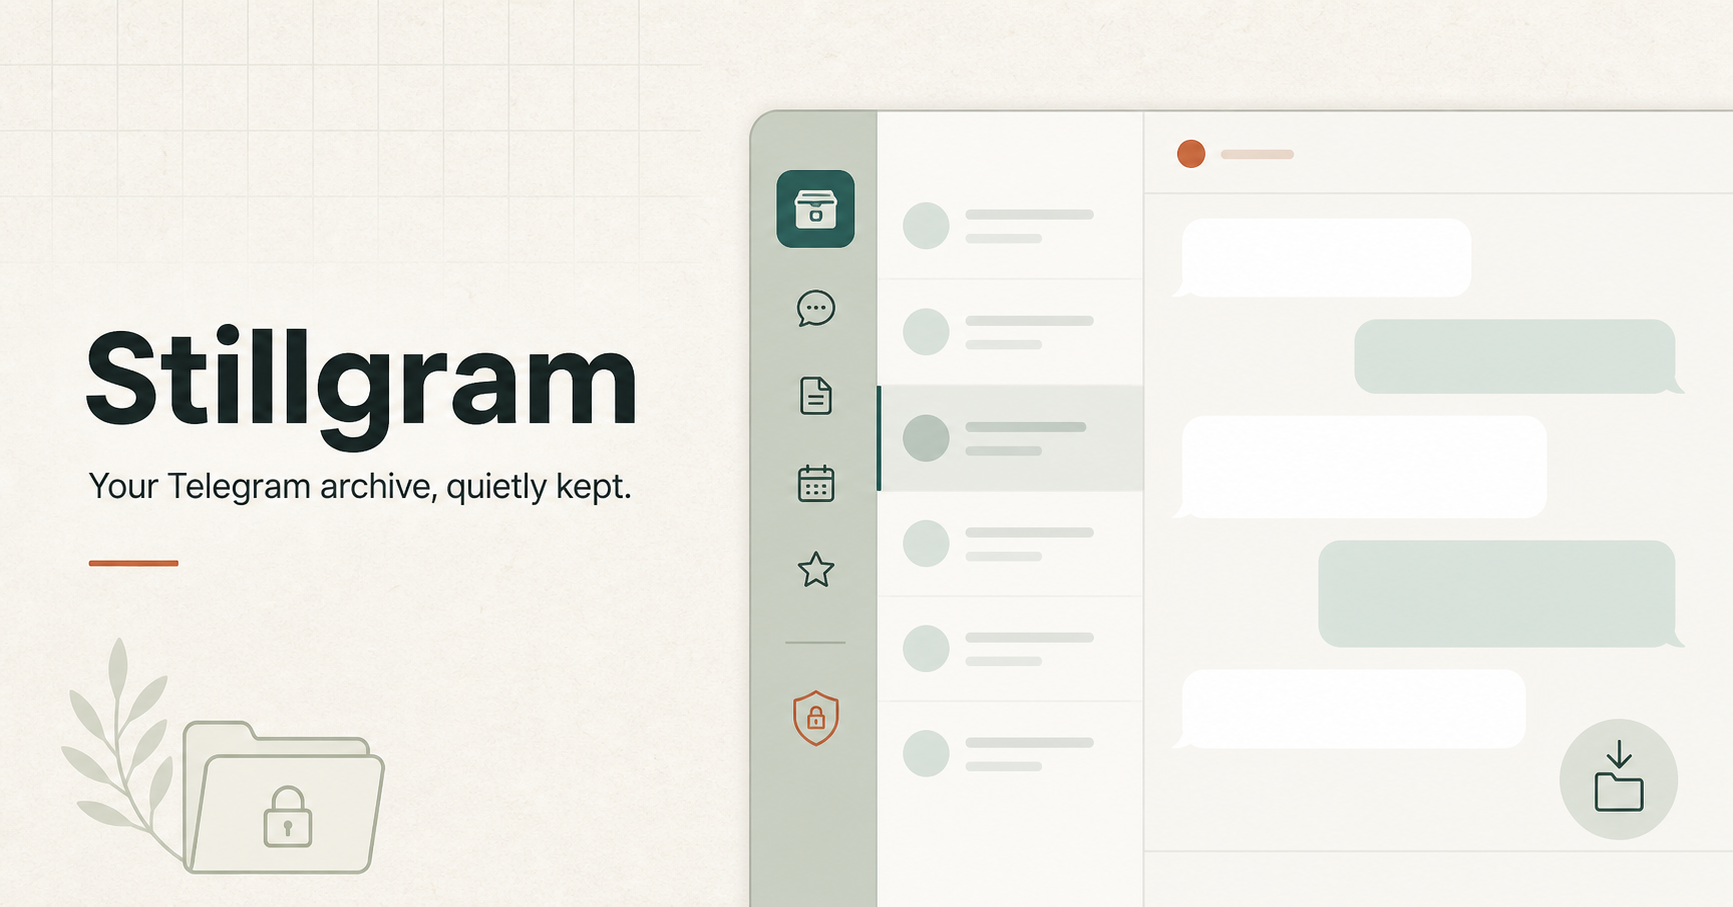
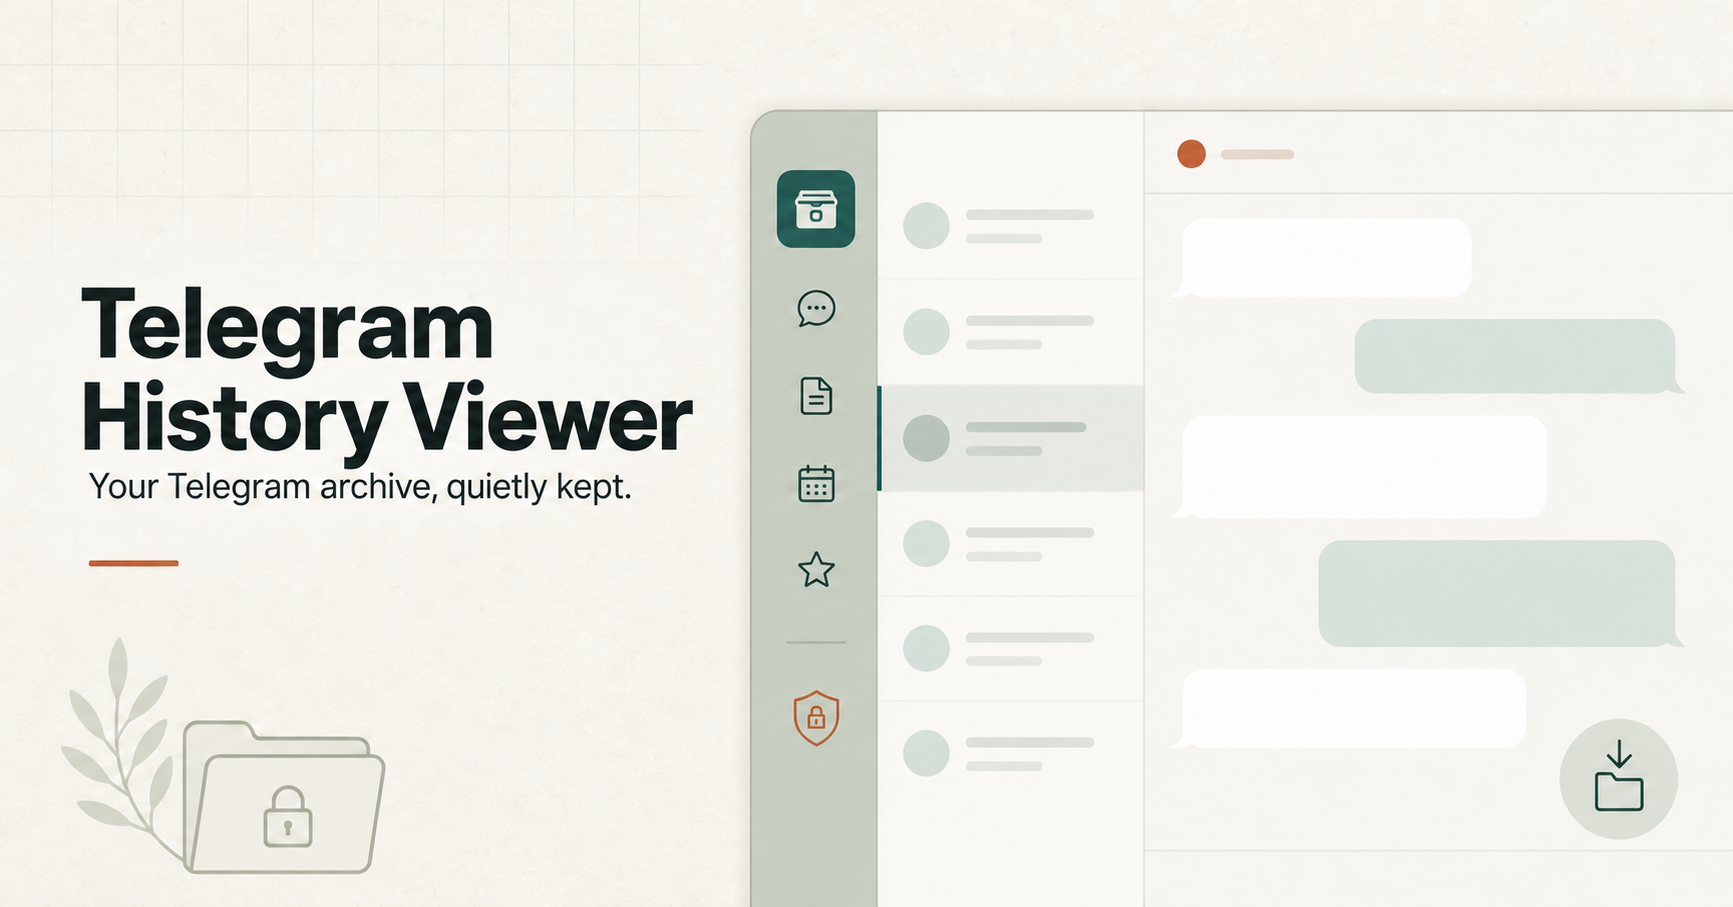
Rebrand app and add GitHub release pipeline

diff --git a/app/page.tsx b/app/page.tsx
@@ -189,12 +189,26 @@ const dayFormatter = new Intl.DateTimeFormat(undefined, {
 });
 const timeFormatter = new Intl.DateTimeFormat(undefined, { hour: "numeric", minute: "2-digit" });
 const mediaDateFormatter = new Intl.DateTimeFormat(undefined, { month: "short", day: "numeric" });
-const ARCHIVE_CACHE_DATABASE = "stillgram-local-archive-files";
+const ARCHIVE_CACHE_DATABASE = "telegram-history-viewer-local-archive-files";
+const LEGACY_ARCHIVE_CACHE_DATABASE = "stillgram-local-archive-files";
 const ARCHIVE_FILES_STORE = "files";
 const ARCHIVE_META_STORE = "metadata";
 const ARCHIVE_CACHE_KEY = "current-archive";
-const CHAT_REMOVED_STORAGE_KEY = "stillgram:chat-removed";
-const LINK_PREVIEWS_STORAGE_KEY = "stillgram:allow-link-previews";
+const CHAT_REMOVED_STORAGE_KEY = "telegram-history-viewer:chat-removed";
+const LEGACY_CHAT_REMOVED_STORAGE_KEY = "stillgram:chat-removed";
+const LINK_PREVIEWS_STORAGE_KEY = "telegram-history-viewer:allow-link-previews";
+const LEGACY_LINK_PREVIEWS_STORAGE_KEY = "stillgram:allow-link-previews";
+
+function readMigratedStorage(currentKey: string, legacyKey: string) {
+  const currentValue = window.localStorage.getItem(currentKey);
+  if (currentValue !== null) return currentValue;
+  const legacyValue = window.localStorage.getItem(legacyKey);
+  if (legacyValue !== null) {
+    window.localStorage.setItem(currentKey, legacyValue);
+    window.localStorage.removeItem(legacyKey);
+  }
+  return legacyValue;
+}
 
 function messageText(message: TelegramMessage): string {
   const source = message.text_entities ?? message.text ?? "";
@@ -207,9 +221,9 @@ function normalizePath(path: string) {
   return path.replaceAll("\\", "/").replace(/^\.\//, "");
 }
 
-function openArchiveCache() {
+function openArchiveCache(databaseName = ARCHIVE_CACHE_DATABASE) {
   return new Promise<IDBDatabase>((resolve, reject) => {
-    const request = indexedDB.open(ARCHIVE_CACHE_DATABASE, 1);
+    const request = indexedDB.open(databaseName, 1);
     request.onupgradeneeded = () => {
       if (!request.result.objectStoreNames.contains(ARCHIVE_FILES_STORE)) {
         request.result.createObjectStore(ARCHIVE_FILES_STORE, { keyPath: "relativePath" });
@@ -238,10 +252,9 @@ function requestValue<T>(request: IDBRequest<T>) {
   });
 }
 
-async function readCachedArchive() {
-  if (typeof indexedDB === "undefined") return undefined;
+async function readArchiveCache(databaseName: string) {
   try {
-    const database = await openArchiveCache();
+    const database = await openArchiveCache(databaseName);
     const transaction = database.transaction([ARCHIVE_FILES_STORE, ARCHIVE_META_STORE], "readonly");
     const recordsRequest = transaction.objectStore(ARCHIVE_FILES_STORE).getAll() as IDBRequest<CachedArchiveRecord[]>;
     const metadataRequest = transaction.objectStore(ARCHIVE_META_STORE).get(ARCHIVE_CACHE_KEY) as IDBRequest<CachedArchiveMetadata | undefined>;
@@ -253,6 +266,16 @@ async function readCachedArchive() {
   } catch {
     return undefined;
   }
+}
+
+async function readCachedArchive() {
+  if (typeof indexedDB === "undefined") return undefined;
+  const currentArchive = await readArchiveCache(ARCHIVE_CACHE_DATABASE);
+  if (currentArchive) return currentArchive;
+
+  const legacyArchive = await readArchiveCache(LEGACY_ARCHIVE_CACHE_DATABASE);
+  if (legacyArchive) await cacheArchive(legacyArchive.entries, legacyArchive.label);
+  return legacyArchive;
 }
 
 async function cacheArchive(entries: ArchiveFileEntry[], label: string) {
@@ -280,12 +303,14 @@ async function cacheArchive(entries: ArchiveFileEntry[], label: string) {
 async function clearCachedArchive() {
   if (typeof indexedDB === "undefined") return false;
   try {
-    const database = await openArchiveCache();
-    const transaction = database.transaction([ARCHIVE_FILES_STORE, ARCHIVE_META_STORE], "readwrite");
-    transaction.objectStore(ARCHIVE_FILES_STORE).clear();
-    transaction.objectStore(ARCHIVE_META_STORE).delete(ARCHIVE_CACHE_KEY);
-    await waitForTransaction(transaction);
-    database.close();
+    await Promise.all([ARCHIVE_CACHE_DATABASE, LEGACY_ARCHIVE_CACHE_DATABASE].map(async (databaseName) => {
+      const database = await openArchiveCache(databaseName);
+      const transaction = database.transaction([ARCHIVE_FILES_STORE, ARCHIVE_META_STORE], "readwrite");
+      transaction.objectStore(ARCHIVE_FILES_STORE).clear();
+      transaction.objectStore(ARCHIVE_META_STORE).delete(ARCHIVE_CACHE_KEY);
+      await waitForTransaction(transaction);
+      database.close();
+    }));
     return true;
   } catch {
     return false;
@@ -629,7 +654,7 @@ function fetchLinkPreview(url: string) {
   const request = fetch(`/api/link-preview?url=${encodeURIComponent(url)}`, {
     cache: "no-store",
     credentials: "same-origin",
-    headers: { "X-Stillgram-Link-Preview": "1" },
+    headers: { "X-Telegram-History-Viewer": "1" },
   })
     .then(async (response) => response.ok ? await response.json() as LinkPreviewData : null)
     .catch(() => null);
@@ -830,7 +855,7 @@ export default function Home() {
 
   useEffect(() => {
     try {
-      setLinkPreviewsEnabled(window.localStorage.getItem(LINK_PREVIEWS_STORAGE_KEY) === "true");
+      setLinkPreviewsEnabled(readMigratedStorage(LINK_PREVIEWS_STORAGE_KEY, LEGACY_LINK_PREVIEWS_STORAGE_KEY) === "true");
     } catch {
       setLinkPreviewsEnabled(false);
     }
@@ -842,7 +867,7 @@ export default function Home() {
       try {
         let chatWasRemoved = false;
         try {
-          chatWasRemoved = window.localStorage.getItem(CHAT_REMOVED_STORAGE_KEY) === "true";
+          chatWasRemoved = readMigratedStorage(CHAT_REMOVED_STORAGE_KEY, LEGACY_CHAT_REMOVED_STORAGE_KEY) === "true";
         } catch {
           // The deletion still applies for this session when browser storage is unavailable.
         }
@@ -906,7 +931,9 @@ export default function Home() {
   const otherName = chat.name ?? participants[0] ?? "Contact";
   const meName = participants.find((name) => name !== otherName) ?? participants[1] ?? "You";
   const defaultConversationName = meName === otherName ? otherName : `${meName} & ${otherName}`;
-  const conversationNameStorageKey = `stillgram:chat-name:${String(chat.id ?? `${meName}|${otherName}`)}`;
+  const conversationStorageId = String(chat.id ?? `${meName}|${otherName}`);
+  const conversationNameStorageKey = `telegram-history-viewer:chat-name:${conversationStorageId}`;
+  const legacyConversationNameStorageKey = `stillgram:chat-name:${conversationStorageId}`;
   const customConversationName = conversationNameOverride?.key === conversationNameStorageKey ? conversationNameOverride.value : "";
   const conversationName = customConversationName || defaultConversationName;
   const conversationInitials = `${initials(meName).slice(0, 1)}${initials(otherName).slice(0, 1)}`;
@@ -920,13 +947,13 @@ export default function Home() {
   useEffect(() => {
     let storedName = "";
     try {
-      storedName = window.localStorage.getItem(conversationNameStorageKey)?.trim() ?? "";
+      storedName = readMigratedStorage(conversationNameStorageKey, legacyConversationNameStorageKey)?.trim() ?? "";
     } catch {
       // Renaming still works for this session when browser storage is unavailable.
     }
     setConversationNameOverride(storedName ? { key: conversationNameStorageKey, value: storedName } : null);
     setRenamingConversation(false);
-  }, [conversationNameStorageKey]);
+  }, [conversationNameStorageKey, legacyConversationNameStorageKey]);
 
   useEffect(() => {
     if (!renamingConversation) return;
@@ -1080,6 +1107,7 @@ export default function Home() {
       setVisibleLimit(DEFAULT_MESSAGE_LIMIT);
       try {
         window.localStorage.removeItem(CHAT_REMOVED_STORAGE_KEY);
+        window.localStorage.removeItem(LEGACY_CHAT_REMOVED_STORAGE_KEY);
       } catch {
         // Opening the archive still works when browser storage is unavailable.
       }
@@ -1106,6 +1134,7 @@ export default function Home() {
     if (!enabled) linkPreviewCache.clear();
     try {
       window.localStorage.setItem(LINK_PREVIEWS_STORAGE_KEY, String(enabled));
+      window.localStorage.removeItem(LEGACY_LINK_PREVIEWS_STORAGE_KEY);
     } catch {
       // The setting remains valid for this session when storage is unavailable.
     }
@@ -1116,7 +1145,7 @@ export default function Home() {
     setCacheStatus(cleared ? "idle" : "unavailable");
     setPrivacyStatus(cleared
       ? "Saved archive files were cleared. The currently open chat stays available until you close the app."
-      : "Stillgram could not clear browser storage.");
+      : "Telegram History Viewer could not clear browser storage.");
   }
 
   function onFolderChange(event: ChangeEvent<HTMLInputElement>) {
@@ -1188,7 +1217,9 @@ export default function Home() {
     setError("");
     try {
       window.localStorage.setItem(CHAT_REMOVED_STORAGE_KEY, "true");
+      window.localStorage.removeItem(LEGACY_CHAT_REMOVED_STORAGE_KEY);
       window.localStorage.removeItem(conversationNameStorageKey);
+      window.localStorage.removeItem(legacyConversationNameStorageKey);
     } catch {
       // The chat remains removed for this session when browser storage is unavailable.
     }
@@ -1206,6 +1237,7 @@ export default function Home() {
     setConversationNameOverride({ key: conversationNameStorageKey, value: nextName });
     try {
       window.localStorage.setItem(conversationNameStorageKey, nextName);
+      window.localStorage.removeItem(legacyConversationNameStorageKey);
     } catch {
       // Keep the session-only rename when browser storage is unavailable.
     }
@@ -1395,7 +1427,7 @@ export default function Home() {
             <button className="theme-toggle" type="button" onClick={() => setTheme(theme === "light" ? "dark" : "light")} aria-label={`Use ${theme === "light" ? "dark" : "light"} theme`}>
               {theme === "light" ? "☾" : "☀"}
             </button>
-            <div className="telegram-brand"><strong>Stillgram</strong><small>local archive</small></div>
+            <div className="telegram-brand"><strong>Telegram History Viewer</strong><small>local archive</small></div>
             <button className="telegram-compose" type="button" onClick={() => void chooseFolder()} aria-label="Open a Telegram export folder">
               ＋
               <span className="control-tooltip" role="tooltip">Open a Telegram export folder</span>
@@ -1411,7 +1443,7 @@ export default function Home() {
                   <div className="chat-list-copy"><strong>{conversationName}</strong></div>
                 </button>
                 <button className="chat-list-rename" type="button" onClick={startConversationRename} aria-label="Rename chat from chat list" title="Rename chat">✎</button>
-                <button className="chat-list-delete" type="button" onClick={() => void removeCurrentChat()} aria-label="Delete current chat" title="Remove chat from Stillgram">
+                <button className="chat-list-delete" type="button" onClick={() => void removeCurrentChat()} aria-label="Delete current chat" title="Remove chat from Telegram History Viewer">
                   <svg viewBox="0 0 24 24" aria-hidden="true">
                     <path d="M9 3h6l1 2h4v2H4V5h4l1-2Zm-2 6h10l-1 11H8L7 9Zm3 2v7h2v-7h-2Zm4 0v7h2v-7h-2Z" />
                   </svg>
@@ -1666,7 +1698,7 @@ export default function Home() {
           }}>
             <header>
               <div className="rename-chat-avatar" aria-hidden="true">{conversationInitials}</div>
-              <div><strong id="rename-chat-title">Rename chat</strong><small>Change how this conversation appears in Stillgram</small></div>
+              <div><strong id="rename-chat-title">Rename chat</strong><small>Change how this conversation appears in Telegram History Viewer</small></div>
               <button type="button" onClick={cancelConversationRename} aria-label="Close rename dialog">×</button>
             </header>
             <label>
@@ -1700,7 +1732,7 @@ export default function Home() {
             <div className="privacy-setting-row">
               <div>
                 <strong>Rich link previews</strong>
-                <p>When on, Stillgram contacts websites for visible links. Those sites can see your IP address and the requested URL.</p>
+                <p>When on, Telegram History Viewer contacts websites for visible links. Those sites can see your IP address and the requested URL.</p>
               </div>
               <label className="privacy-switch">
                 <input type="checkbox" checked={linkPreviewsEnabled} onChange={(event) => setRichLinkPreviews(event.target.checked)} />
@@ -1711,7 +1743,7 @@ export default function Home() {
             <div className="privacy-setting-row saved-data-setting">
               <div>
                 <strong>Saved archive copy</strong>
-                <p>Archive files are stored locally for refresh recovery. They are not encrypted by Stillgram.</p>
+                <p>Archive files are stored locally for refresh recovery. They are not encrypted by Telegram History Viewer.</p>
               </div>
               <button className="clear-cache-button" type="button" onClick={() => void clearSavedArchiveCache()} disabled={isDemo || cacheStatus !== "saved"}>
                 Clear saved copy

diff --git a/app/layout.tsx b/app/layout.tsx
@@ -34,18 +34,18 @@ export async function generateMetadata(): Promise<Metadata> {
   const origin = `${protocol}://${host}`;
 
   return {
-    title: "Stillgram — Private Telegram archive viewer",
+    title: "Telegram History Viewer — Private archive viewer",
     description:
       "Browse and search Telegram chat exports locally. Your messages and media never leave your device.",
     openGraph: {
-      title: "Stillgram",
+      title: "Telegram History Viewer",
       description: "Your Telegram archive, quietly kept.",
       type: "website",
-      images: [{ url: `${origin}/og.png`, width: 1734, height: 907, alt: "Stillgram private chat archive viewer" }],
+      images: [{ url: `${origin}/og.png`, width: 1734, height: 907, alt: "Telegram History Viewer private archive interface" }],
     },
     twitter: {
       card: "summary_large_image",
-      title: "Stillgram",
+      title: "Telegram History Viewer",
       description: "Your Telegram archive, quietly kept.",
       images: [`${origin}/og.png`],
     },

diff --git a/app/api/link-preview/route.ts b/app/api/link-preview/route.ts
@@ -1,6 +1,6 @@
 const MAX_HTML_BYTES = 1_500_000;
 const MAX_URL_CHARACTERS = 4_096;
-const PREVIEW_REQUEST_HEADER = "x-stillgram-link-preview";
+const PREVIEW_REQUEST_HEADER = "x-telegram-history-viewer";
 
 function blockedIpv4(host: string) {
   const parts = host.split(".").map(Number);
@@ -53,7 +53,7 @@ async function fetchWithSafeRedirects(initialUrl: URL) {
     const response = await fetch(target, {
       headers: {
         Accept: "text/html,application/xhtml+xml,image/*;q=0.8",
-        "User-Agent": "Mozilla/5.0 (compatible; StillgramLinkPreview/1.0)",
+        "User-Agent": "Mozilla/5.0 (compatible; TelegramHistoryViewerLinkPreview/1.0)",
       },
       redirect: "manual",
       signal: AbortSignal.timeout(7000),

diff --git a/app/globals.css b/app/globals.css
@@ -1609,7 +1609,8 @@ body {
 
 .telegram-brand strong {
   font-size: 15px;
-  line-height: 1.1;
+  line-height: 1.05;
+  text-wrap: balance;
 }
 
 .telegram-brand small {
@@ -3244,10 +3245,8 @@ body {
   }
 
   .telegram-brand strong {
-    overflow: hidden;
     font-size: 12px;
-    text-overflow: ellipsis;
-    white-space: nowrap;
+    line-height: 1.05;
   }
 
   .telegram-brand small {

diff --git a/README.md b/README.md
@@ -1,13 +1,13 @@
-# Stillgram
+# Telegram History Viewer
 
-Stillgram is a private, on-device viewer for exported Telegram conversations. It displays messages, photos, videos, GIFs, stickers, audio, files, and links without uploading the archive.
+Telegram History Viewer is a private, on-device viewer for exported Telegram conversations. It displays messages, photos, videos, GIFs, stickers, audio, files, and links without uploading the archive.
 
 ## Privacy model
 
-- The archive is read in the application and is never uploaded by Stillgram.
-- A local cached copy is saved for refresh recovery. It can be removed at any time from **Privacy settings → Clear saved copy**. Stillgram does not encrypt this cache; access is protected by the operating-system account and device security.
-- Rich link previews are off by default. When enabled, Stillgram contacts the linked websites, which can reveal the device's public IP address and the requested URLs. Desktop preview requests reject local/private network targets and proxy preview images into the app.
-- Clicking a link opens it in the system browser. Stillgram does not embed external websites.
+- The archive is read in the application and is never uploaded by Telegram History Viewer.
+- A local cached copy is saved for refresh recovery. It can be removed at any time from **Privacy settings → Clear saved copy**. Telegram History Viewer does not encrypt this cache; access is protected by the operating-system account and device security.
+- Rich link previews are off by default. When enabled, Telegram History Viewer contacts the linked websites, which can reveal the device's public IP address and the requested URLs. Desktop preview requests reject local/private network targets and proxy preview images into the app.
+- Clicking a link opens it in the system browser. Telegram History Viewer does not embed external websites.
 
 See [SECURITY.md](SECURITY.md) for the security boundary, reporting process, and remaining limitations.
 
@@ -34,7 +34,7 @@ npm run desktop:build
 The finished executable is written to:
 
 ```text
-release/Stillgram-0.1.0-portable.exe
+release/Telegram-History-Viewer-0.1.0-portable.exe
 ```
 
 It does not need installation. The application starts a private server bound only to the local computer, and archive files remain on the device.
@@ -44,6 +44,18 @@ To test the desktop runtime without packaging it:
 ```powershell
 npm run desktop:run
 ```
+
+## Continuous integration and releases
+
+GitHub Actions validates TypeScript, linting, the production build, security tests, and the desktop smoke test on every push to `main` and every pull request.
+
+To publish a Windows release:
+
+1. Update `version` in `package.json` and commit the change.
+2. Create a matching tag, for example `git tag v0.1.0`.
+3. Push it with `git push origin v0.1.0`.
+
+The release workflow builds the portable x64 `.exe`, creates a SHA-256 checksum, stores both as a workflow artifact, and publishes them to the repository's GitHub Releases page. The workflow rejects a tag that does not match the version in `package.json`.
 
 ## Validation
 

diff --git a/SECURITY.md b/SECURITY.md
@@ -1,4 +1,4 @@
-# Stillgram security
+# Telegram History Viewer security
 
 ## Supported version
 
@@ -10,7 +10,7 @@ Do not include real Telegram exports, messages, media, access tokens, or other p
 
 ## Security boundary
 
-Stillgram is a local archive viewer, not an encrypted vault. The original Telegram export and Stillgram's refresh cache are plaintext data available to software running as the same operating-system user. Use full-disk encryption, a protected Windows account, and the **Clear saved copy** control when the archive should not remain cached.
+Telegram History Viewer is a local archive viewer, not an encrypted vault. The original Telegram export and the viewer's refresh cache are plaintext data available to software running as the same operating-system user. Use full-disk encryption, a protected Windows account, and the **Clear saved copy** control when the archive should not remain cached.
 
 The desktop renderer is sandboxed, has no Node.js access, and is restricted to the app's loopback origin. The embedded server listens only on `127.0.0.1`, requires a per-launch session cookie for link-preview requests, and applies restrictive browser security headers.
 
@@ -28,7 +28,7 @@ Before publishing a release:
 
 ## Known limitations
 
-- Cached archive data is not encrypted by Stillgram.
+- Cached archive data is not encrypted by Telegram History Viewer.
 - The Content Security Policy permits inline scripts because the current application framework emits inline hydration data. External script origins remain blocked.
 - The unsigned development executable can trigger Windows SmartScreen warnings.
 - The hosted/browser build cannot pin DNS results in the same way as the desktop runtime. Its rich-preview endpoint applies protocol, hostname, address-literal, port, redirect, request-marker, timeout, and size checks, but the desktop build has the stronger network boundary.
